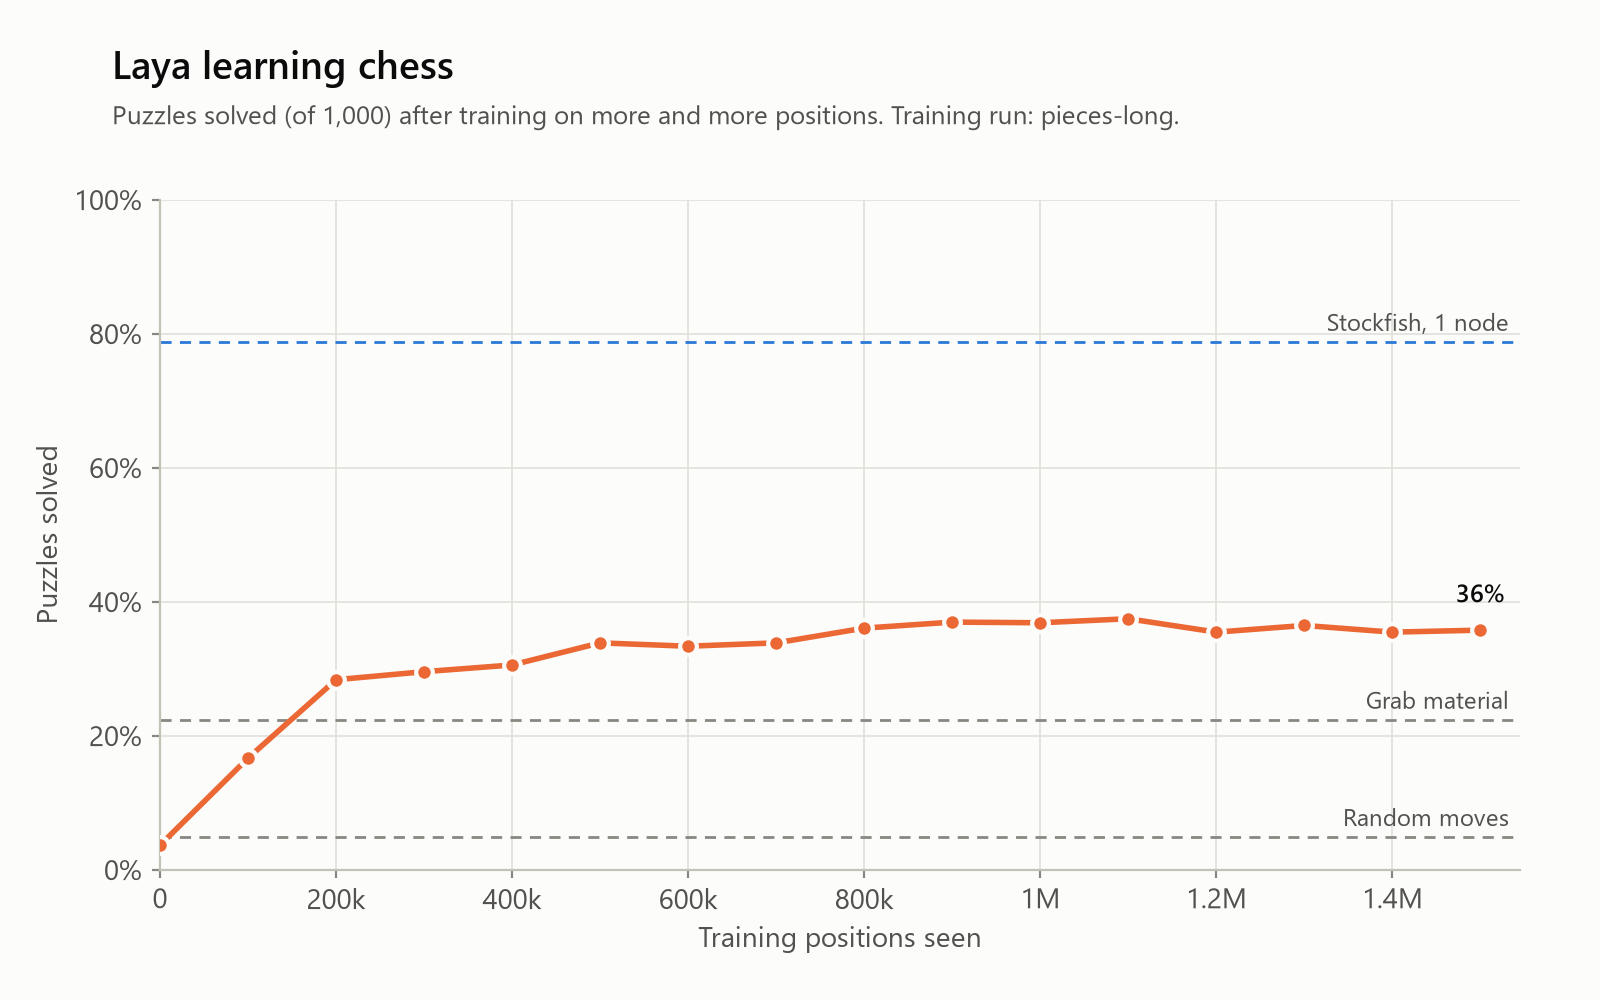
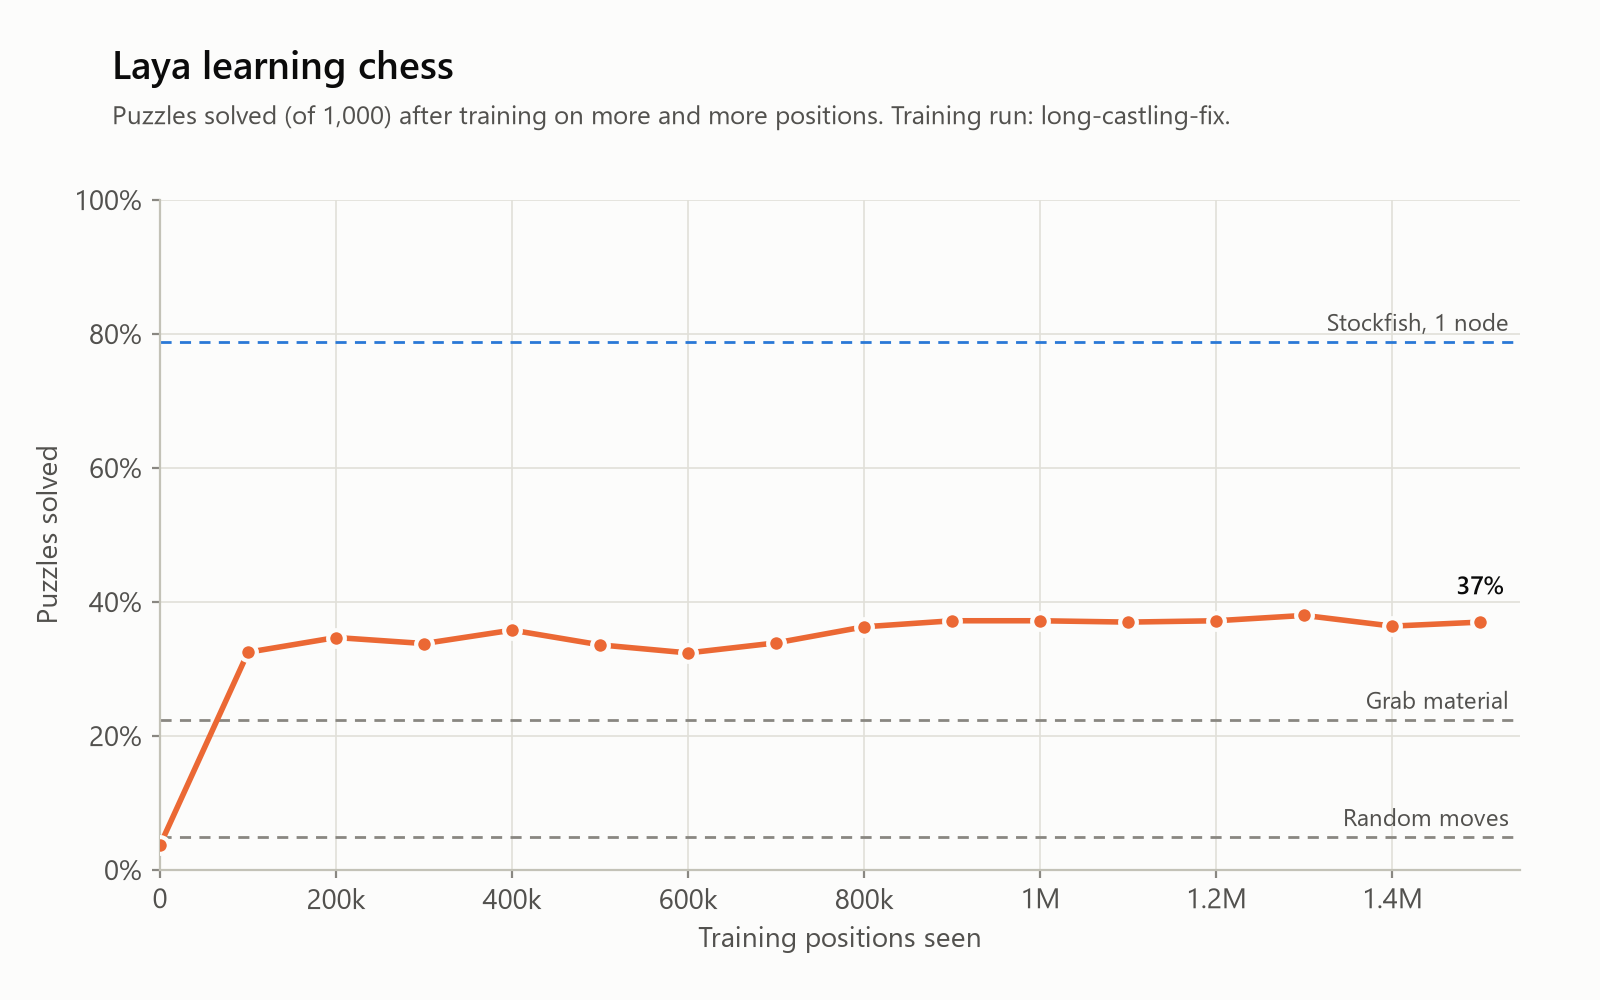
Update README to the final results (long-castling-fix, 1121 Elo) (#1)
- Status line, results table, castling-fix paragraph and Elo section now match
  results/summary.csv, results/elo.csv and docs/experiments.md
- Redraw elo_ladder, strength_vs_time and learning_curve from the results files;
  add labels for the two new players in scripts/make_charts.py and update the
  game count in the Elo chart subtitle (4,800)

diff --git a/scripts/make_charts.py b/scripts/make_charts.py
@@ -241,6 +241,8 @@ PLAYER_LABELS = {
     "laya-pieces-300k": "Laya, piece list (300k positions)",
     "laya-pieces-1.5M": "Laya, piece list (1.5M positions)",
     "laya-pieces-1.5M+guard": "Laya, piece list (1.5M) + finish-the-game guard",
+    "laya-pieces-1.5M-castling": "Laya, piece list (1.5M), castling fix",
+    "laya-pieces-1.5M-castling+guard": "Laya, piece list (1.5M), castling fix + guard",
     "random": "Random moves",
     "greedy": "Grab material",
 }
@@ -252,7 +254,7 @@ def elo_ladder(theme: dict):
     fig, ax = new_figure(
         theme,
         "The Elo ladder",
-        "3,000 games: each Laya version played 100 games against each opponent. Stockfish levels are fixed at their "
+        "4,800 games: each Laya version played 100 games against each opponent. Stockfish levels are fixed at their "
         "stated ratings.",
         size=(8, 5.5),
     )
@@ -269,7 +271,7 @@ def elo_ladder(theme: dict):
             ax.plot([low, high], [y, y], color=color, linewidth=2, alpha=0.45, solid_capstyle="round", zorder=2)
         ax.plot(elo, y, marker, markersize=8, color=color, markeredgecolor=theme["surface"], markeredgewidth=1.5,
                 zorder=3)  # fmt: skip
-        bold = player == "laya-pieces-1.5M"
+        bold = player == "laya-pieces-1.5M-castling+guard"
         ax.annotate(f"{label}  {elo}", (high, y), xytext=(10, 0), textcoords="offset points", va="center",
                     fontsize=9, color=theme["ink"] if bold else theme["ink_secondary"],
                     fontweight="semibold" if bold else "normal")  # fmt: skip

diff --git a/README.md b/README.md
@@ -7,8 +7,9 @@ answer from a list of options in a single step, without thinking ahead. This pro
 choose chess moves, and measures how good and how fast those moves are compared with Stockfish. First as it comes,
 then after training it on chess.
 
-> **Status:** Phase 4 done (games and Elo). See the
-> [roadmap](docs/roadmap.md).
+> **Status:** Phase 4 done (games and Elo), and the improvement loop has finished (two rounds, stopped on
+> 2026-10-16). Best model: `long-castling-fix`, 37.0% of puzzles and 1121 Elo with the finish-the-game guard (1039
+> without it). See the [experiment log](docs/experiments.md) and the [roadmap](docs/roadmap.md).
 
 ## First results
 
@@ -23,11 +24,12 @@ Tested on 1,000 Lichess puzzles and 2,000 positions from real games ([details](t
 | Laya, after a 10-minute pilot (50k positions) | 32.6% | 16.2% | 17.3 ms (GPU) |
 | Laya, after an overnight run (2.5M positions) | 35.3% | 12.9% | 15.3 ms (GPU) |
 | Laya with a piece list, 300k positions | 34.8% | 11.5% | 17.2 ms (GPU) |
-| **Laya with a piece list, 1.5M positions** | **35.8%** | **10.9%** | 14.9 ms (GPU) |
+| Laya with a piece list, 1.5M positions | 35.8% | 10.9% | 14.9 ms (GPU) |
+| **Laya with a piece list, 1.5M positions, castling fix** | **37.0%** | **10.6%** | 15.1 ms (GPU) |
 
 <picture>
   <source media="(prefers-color-scheme: dark)" srcset="figures/strength_vs_time-dark.png">
-  <img alt="Puzzles solved vs time per move: Stockfish solves 79-100% of puzzles in 0.5-60 ms; Laya goes from 5% before training to 35% after training, at about 17 ms per move" src="figures/strength_vs_time.png">
+  <img alt="Puzzles solved vs time per move: Stockfish solves 79-100% of puzzles in 0.5-60 ms; Laya goes from 5% before training to 37% after training, at about 15 ms per move" src="figures/strength_vs_time.png">
 </picture>
 
 Out of the box, Laya plays no better than random. After training on 50,000 positions analysed by Stockfish, it already
@@ -37,7 +39,13 @@ beats a "grab material" player. Training overnight on 2.5 million positions impr
 `r1bqkb1r/pppp1ppp/2n2n2` reaches it as fragments like `rk`, `pp`, `1`, so it has to count its way to each piece.
 Adding a list of each side's pieces, written like the moves (`Ke1 Qd1 Nf3`), let a 300k-position run beat the 2.5M
 FEN run on move quality. An 8×8 grid of the same length made no difference. A longer run with the piece list (1.5M
-positions) gave the best model so far, but only by a little: with this setup Laya levels off at about 36% of puzzles.
+positions) gave only a little more: with this setup Laya levels off at about 36% of puzzles.
+
+**The best model came from a bug fix.** The training data never taught Laya to castle: the Lichess database writes
+castling differently from python-chess, so castling always got a target of 0 and the old model never castled. Fixing
+that, with the same 1.5M-position run, gave **37.0%** of puzzles. Six other experiments (a lower learning rate, no
+FEN, longer move notation, a two-step piece-then-square question, a different move output, and richer training
+targets) found no clear gain; see the [experiment log](docs/experiments.md).
 
 <picture>
   <source media="(prefers-color-scheme: dark)" srcset="figures/board_formats-dark.png">
@@ -46,27 +54,28 @@ positions) gave the best model so far, but only by a little: with this setup Lay
 
 <picture>
   <source media="(prefers-color-scheme: dark)" srcset="figures/learning_curve-dark.png">
-  <img alt="Learning curve of the best model: puzzles solved rises from 4% to about 30% in the first 400k training positions and levels off at about 36% from 800k positions on" src="figures/learning_curve.png">
+  <img alt="Learning curve of the best model: puzzles solved rises from 4% to about 33% in the first 100k training positions and levels off at about 37% from 900k positions on" src="figures/learning_curve.png">
 </picture>
 
-## Elo from 3,000 games
+## Elo from 4,800 games
 
 Each Laya version played 100 games against each opponent: a random mover, a "grab material" player, and Stockfish
 limited to 1320, 1500, 1700 and 2000 Elo. All games start from 50 balanced openings, each played with both colours.
 
 <picture>
   <source media="(prefers-color-scheme: dark)" srcset="figures/elo_ladder-dark.png">
-  <img alt="Elo ladder: untrained Laya 689 (level with random moves at 678), grab material 834, pilot 908, piece list 300k 961, FEN 2.5M 964, piece list 1.5M 1008, and 1053 with the finish-the-game guard; Stockfish levels at 1320 to 2000 above" src="figures/elo_ladder.png">
+  <img alt="Elo ladder: untrained Laya 684 (level with random moves at 668), grab material 835, pilot 905, piece list 300k 959, FEN 2.5M 962, piece list 1.5M 1006, 1039 with the castling fix, and 1121 with the castling fix and the finish-the-game guard; Stockfish levels at 1320 to 2000 above" src="figures/elo_ladder.png">
 </picture>
 
-Training took Laya from the level of a random mover (689) to about **1010 Elo**, ahead of "grab material" (834) but
-still well below Stockfish's weakest setting (1320), against which it scored 11.5 out of 100. The ranking matches
+Training took Laya from the level of a random mover (684) to about **1040 Elo** (1006 before the castling fix), ahead
+of "grab material" (835) but still well below Stockfish's weakest setting (1320), against which it scored 16.5 out of
+100. The ranking matches
 the test-set results. The numbers are on Stockfish's scale (roughly the CCRL computer rating list), not a human one.
 
-**Laya wins material but can't finish games.** Against the random mover, the best Laya won 74 games and drew 26, and
-in every one of those 26 draws it was at least a rook ahead. It walks into threefold repetitions and stalemates
+**Laya wins material but can't finish games.** Against the random mover, the 1.5M model before the castling fix won 74 games and
+drew 26, and in every one of those 26 draws it was at least a rook ahead. It walks into threefold repetitions and stalemates
 because it only ever sees the current position, not how the game got there. A simple guard (when clearly ahead, skip
-moves that repeat a position or stalemate) fixes that: 99.5 out of 100 against the random mover, and **1053 Elo**.
+moves that repeat a position or stalemate) fixes that: 99.5 out of 100 against the random mover, and **1121 Elo** for the best model.
 It changes nothing against Stockfish, where Laya is rarely ahead.
 
 **Hardware:** Laya needs about 2.3 GB of GPU memory. On an RTX 5080 it takes about 18 ms per move, or about
